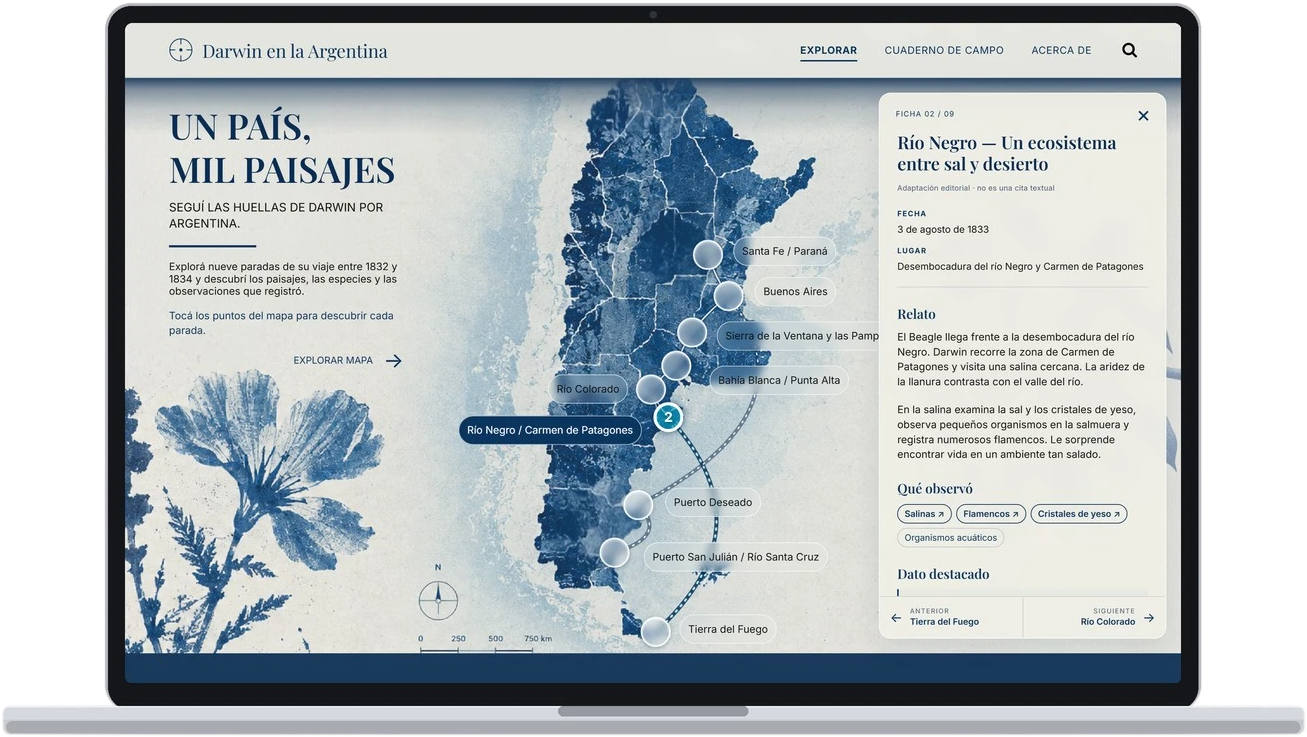
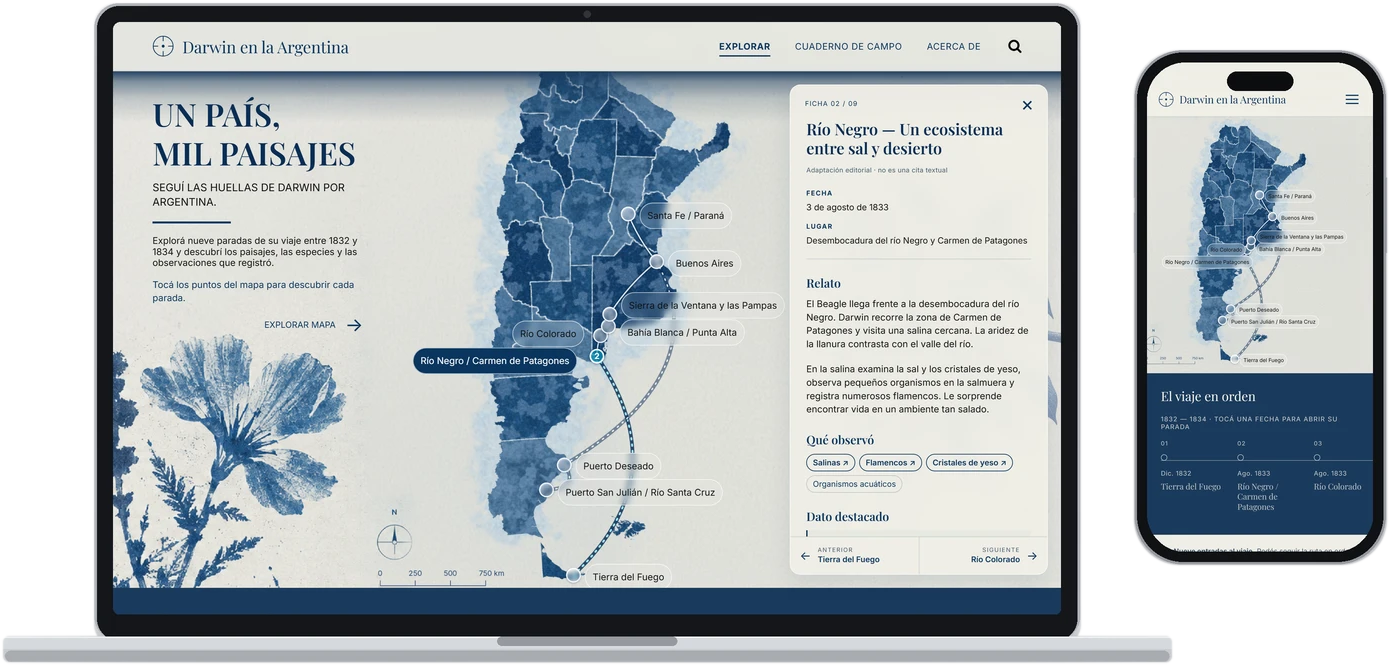
007: mockup nuevo del mapa digital (notebook y teléfono)

diff --git a/index.html b/index.html
@@ -205,7 +205,7 @@
 
       <div class="piece">
         <!-- Mapa digital: mockup fotográfico recortado (tools/recorte.py) -->
-        <div class="foto" style="background-image:url(assets/images/007-mockup-web.png?v=7a2e0c78)" role="img" aria-label="Mockup del sitio web en una notebook: mapa de la Argentina con las paradas y una ficha abierta"></div>
+        <div class="foto" style="background-image:url(assets/images/007-mockup-web.png?v=662b4cbb)" role="img" aria-label="Mockup del mapa digital en una notebook y en un teléfono: mapa de la Argentina con las paradas y una ficha abierta"></div>
         <h2 class="t-label t-label--strong">Mapa digital</h2>
         <p class="t-editorial">Exploración espacial de las paradas y recorridos.</p>
       </div>

diff --git a/pages/007.html b/pages/007.html
@@ -13,7 +13,7 @@
 
       <div class="piece">
         <!-- Mapa digital: mockup fotográfico recortado (tools/recorte.py) -->
-        <div class="foto" style="background-image:url(assets/images/007-mockup-web.png)" role="img" aria-label="Mockup del sitio web en una notebook: mapa de la Argentina con las paradas y una ficha abierta"></div>
+        <div class="foto" style="background-image:url(assets/images/007-mockup-web.png)" role="img" aria-label="Mockup del mapa digital en una notebook y en un teléfono: mapa de la Argentina con las paradas y una ficha abierta"></div>
         <h2 class="t-label t-label--strong">Mapa digital</h2>
         <p class="t-editorial">Exploración espacial de las paradas y recorridos.</p>
       </div>

diff --git a/tools/recorte.py b/tools/recorte.py
@@ -13,11 +13,13 @@ def guardar(im, mask, name):
     out = out.crop(alpha.getbbox())
     out.save(os.path.join(IMG, name)); print(name, out.size)
 
-# Web: la notebook es geométrica → pantalla y base como rectángulos redondeados (medidos sobre el original)
-im = Image.open(os.path.join(IMG, 'originales', 'mockup-web.webp')).convert('RGB')
+# Web: notebook y teléfono son geométricos → rectángulos redondeados medidos sobre el original
+# (mockup-web-2.webp, 12 oct. 2026; reemplaza al anterior, mockup-web.webp, que mostraba solo la notebook)
+im = Image.open(os.path.join(IMG, 'originales', 'mockup-web-2.webp')).convert('RGB')
 mask = Image.new('L', [s * 4 for s in im.size], 0); d = ImageDraw.Draw(mask)
-d.rounded_rectangle([220 * 4, 122 * 4, 1316 * 4, 830 * 4], radius=26 * 4, fill=255)
-d.rounded_rectangle([118 * 4, 825 * 4, 1419 * 4, 853 * 4], radius=7 * 4, fill=255)
+d.rounded_rectangle([122 * 4, 147 * 4, 1108 * 4 + 3, 790 * 4], radius=22 * 4, fill=255)    # pantalla
+d.rounded_rectangle([31 * 4, 780 * 4, 1199 * 4 + 3, 806 * 4], radius=6 * 4, fill=255)      # base
+d.rounded_rectangle([1162 * 4, 194 * 4, 1414 * 4 + 3, 708 * 4 + 3], radius=46 * 4, fill=255)  # teléfono
 guardar(im, mask.resize(im.size, Image.LANCZOS), '007-mockup-web.png')
 
 # Libro: el fondo y la sombra son grises neutros; papel y tapa tienen color → máscara por saturación,

diff --git a/BOOK_PROGRESS.md b/BOOK_PROGRESS.md
@@ -531,3 +531,4 @@ Se reemplazaron los 39 recuadros de imagen pendiente por ilustraciones generadas
 - 2026-10-12 · 089: los dos recuadros esquemáticos (ondas / cuadrados) se reemplazan por láminas en grabado de ChatGPT: «un magnífico lago» y «sal cristalizada en grandes cubos» (originales 089a-lago.webp y 089b-sal.webp → tools/laminas.py → 92,34 × 45 mm, 423 ppp). Mismos pies. Página aún sin aprobar. Falta sumarlas a los créditos de 104.
 - 2026-10-12 · 024: la imagen de la salina llega también hasta el lomo: ocupa todo el ancho de la página, a sangre a la izquierda y abajo (pedido de Patricio; caja 210 × 43,5 mm, 186 ppp). Solo CSS e imagen: sigue bloqueada.
 - 2026-10-12 · 007: el esquema de las fichas se reemplaza por el mockup de las fichas de campo (original assets/images/originales/007-mockup-fichas.webp, recortado de su fondo por tools/recorte.py → assets/images/007-mockup-fichas.png, 1507 × 810 px, ~650 ppp en su caja). HTML de 007 cambiado: re-aprobada. Queda resuelto el pendiente «mockup de fichas para 007».
+- 2026-10-12 · 007: el mockup del mapa digital se reemplaza por el nuevo, con notebook y teléfono (original assets/images/originales/mockup-web-2.webp, recortado por tools/recorte.py → assets/images/007-mockup-web.png, 1390 × 665 px). Se actualiza la descripción de la imagen; 007 re-aprobada. La pantalla sigue diciendo «nueve paradas» (es la captura de la web).
